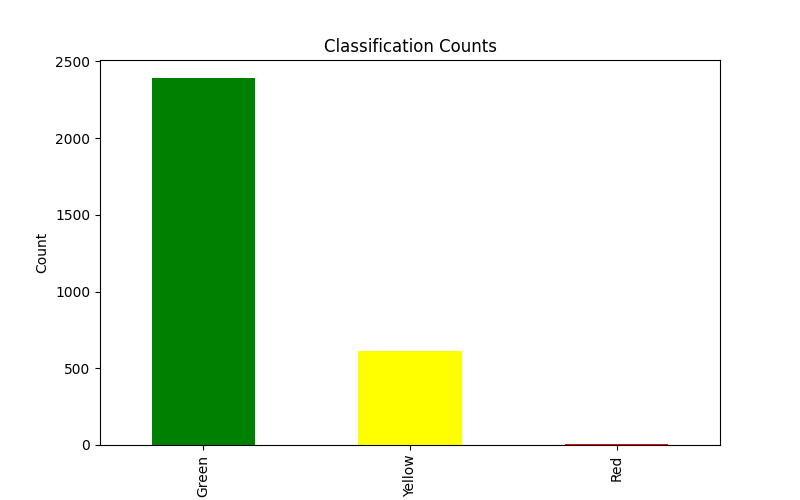
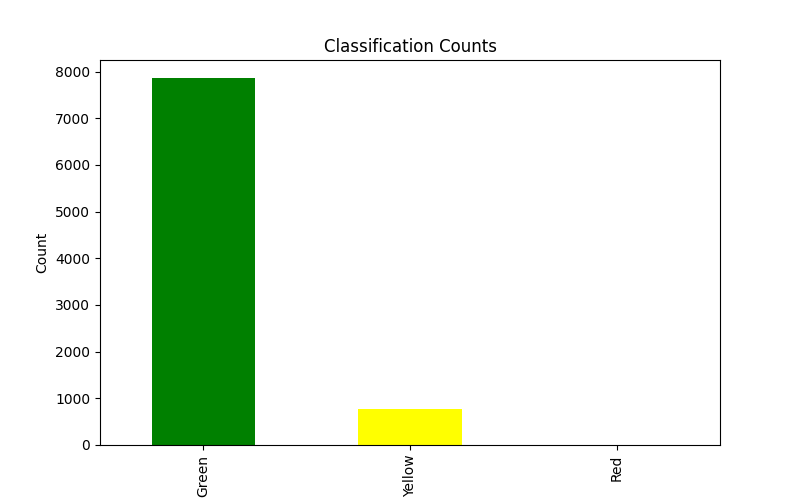
implement pm25 classification

diff --git a/classification_component/pm25_classification.py b/classification_component/pm25_classification.py
@@ -9,7 +9,7 @@ import tflite_runtime.interpreter as tflite
 BROKER = os.environ.get("MQTT_BROKER", "localhost")
 SUBSCRIBE_TOPIC = "sensor/pm25"
 PUBLISH_TOPIC = "sensor/classification"
-TARGET_POINTS = 3000
+TARGET_POINTS = 8629
 OUTPUT_DIR = "/app/output"
 
 pm25_dataset = []

diff --git a/pm25_prediction.py b/pm25_prediction.py
@@ -10,7 +10,7 @@ from ml_engine import MLPredictor
 
 BROKER = os.environ.get("MQTT_BROKER", "localhost")
 TOPIC = "sensor/pm25"
-TARGET_POINTS = 3000
+TARGET_POINTS = 8629
 OUTPUT_DIR = "/app/output"
 
 pm25_dataset = []
